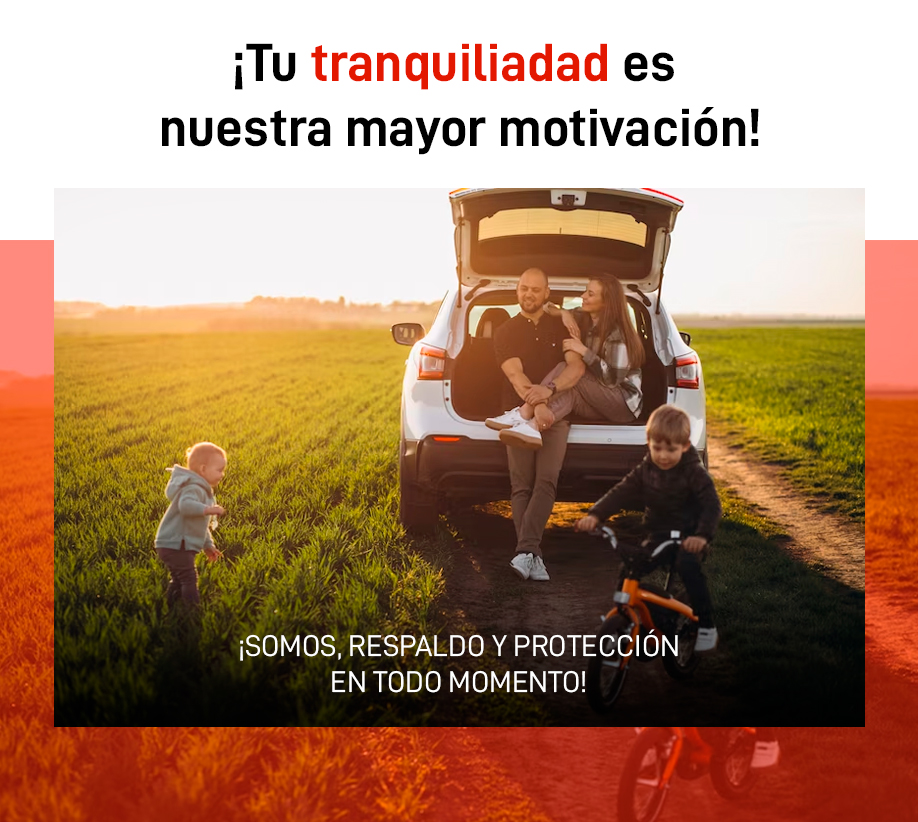
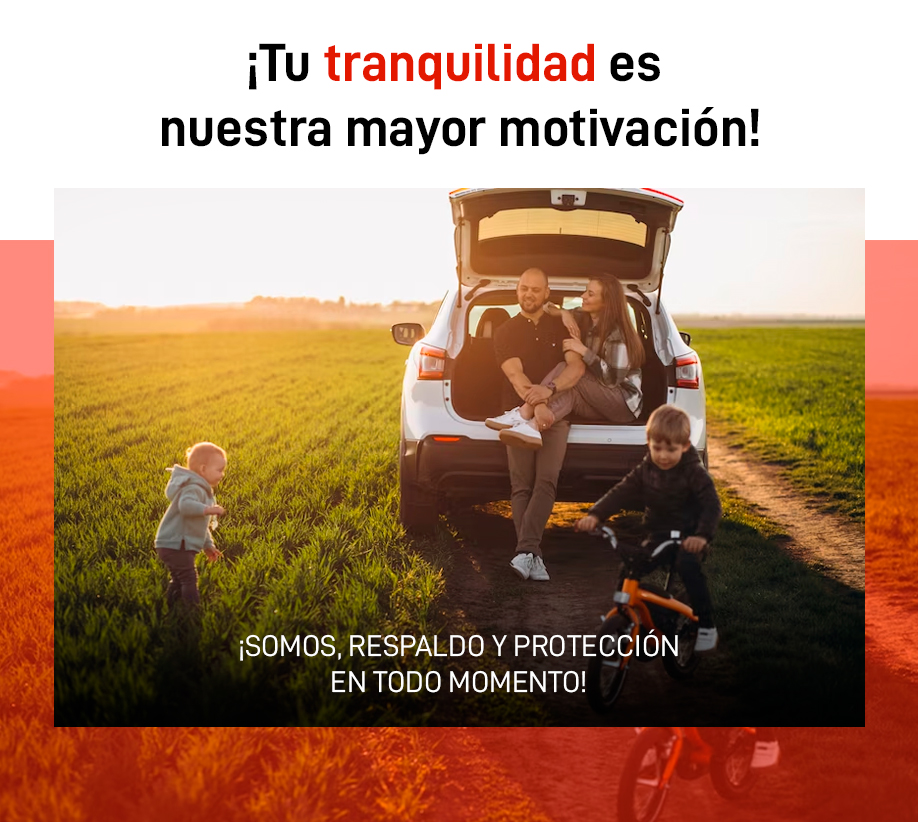
1.6.29

Changed region(s): [[0.244, 0.0304, 0.732, 0.1217]]

diff --git a/webapp/Scripts/ColoresTenant.js b/webapp/Scripts/ColoresTenant.js
@@ -2,21 +2,44 @@
 
 //// Cargar el select de aliados////////
 
+//app.core.Get(app.setting.apipath + 'v1/Colors/GetColor')
+//    .done(function (data, textStatus, jqXHR) {
+//        ListaElementos = data;
+//        for (var a in data) {
+//            for (var prop in data[a]) {
+//                var object = data[a]
+//                if (prop == "Tenant") {
+//                    $('#tenant').append($('<option>', {
+//                        text: object[prop]
+//                    }));
+//                }
+//            }
+//        }
+
+//    })
+
+
 app.core.Get(app.setting.apipath + 'v1/Colors/GetColor')
     .done(function (data, textStatus, jqXHR) {
         ListaElementos = data;
+        var addedValues = {}; // objeto para evitar values duplicados
         for (var a in data) {
-            for (var prop in data[a]) {
-                var object = data[a]
-                if (prop == "Tenant") {
+            if (data[a].hasOwnProperty('Tenant') && data[a].hasOwnProperty('CompanyID')) {
+                var Tenant = data[a]['Tenant'];
+                var CompanyID = data[a]['CompanyID'];
+                if (!addedValues.hasOwnProperty(CompanyID)) { // Si el value no está en el objeto 
+                    addedValues[CompanyID] = true; // Agregar el value al objeto 
                     $('#tenant').append($('<option>', {
-                        text: object[prop]
+                        text: Tenant,
+                        value: CompanyID
                     }));
                 }
             }
         }
+    });
 
-    })
+
+
 
 //// Cambiar los colores de los inputs segun el alido/////
 
@@ -26,7 +49,7 @@ $("#tenant").on('change', function () {
         for (var prop in ListaElementos[a]) {
             var object = ListaElementos[a]
             if (object[prop] == Tenant) {
-                
+
                 $('#color1').val(object['Color1'])
                 $('#color2').val(object['Color2'])
             }
@@ -38,8 +61,9 @@ $("#tenant").on('change', function () {
 /////// obtener sus valores /////////
 
 function MapInputToObject() {
-    
+
     var data = {
+        CompanyID: $("#tenant option:selected").val(),
         Color1: $('#color1').val(),
         Color2: $('#color2').val(),
         Tenant: $("#tenant option:selected").text(),
@@ -90,7 +114,7 @@ $("#resetear").click(function () {
 
 //////cambiar colores "previsualización" tiempo real///////////////
 
-let ColorInput1 = document.getElementById("color1") 
+let ColorInput1 = document.getElementById("color1")
 ColorInput1.addEventListener("input", e => {
 
     document.documentElement.style.setProperty('--prewiew1', e.target.value)
@@ -113,15 +137,15 @@ $("#tenant").on('change', function () {
         for (var prop in ListaElementos[a]) {
             var object = ListaElementos[a]
             if (object[prop] == Tenant) {
-                
+
                 document.getElementById('logotenant').innerHTML = ['<img class="thumb" src= "' + object['Logo'] + '"/>']
-                
+
             }
         }
     }
     document.documentElement.style.setProperty('--prewiew1', $('#color1').val())
     document.documentElement.style.setProperty('--prewiew2', $('#color2').val())
-    
+
 
 })
 
@@ -130,8 +154,8 @@ $("#tenant").on('change', function () {
 $('#tenant').on('change', function (e) {
 
     $('.preview_page').css('display', 'none');
-    setTimeout(function () { $('.preview_page').css('display', 'block'); },50)
-    
+    setTimeout(function () { $('.preview_page').css('display', 'block'); }, 50)
+
 });
 
 
@@ -139,29 +163,29 @@ $('#tenant').on('change', function (e) {
 
 /// carga archivo del input file//////////
 
- function archivo(evt) {
-            var files = evt.target.files;
+function archivo(evt) {
+    var files = evt.target.files;
 
-            for (var i = 0, f; f = files[i]; i++) {
-                if (!f.type.match('image.*')) {
-                    toastr.error("No se permiten archivos que no sean imágenes", '', { timeOut: 7000, closeButton: true, progressBar: true });
+    for (var i = 0, f; f = files[i]; i++) {
+        if (!f.type.match('image.*')) {
+            toastr.error("No se permiten archivos que no sean imágenes", '', { timeOut: 7000, closeButton: true, progressBar: true });
 
-                    continue;
-                }
-
-                var reader = new FileReader();
-
-                reader.onload = (function (theFile) {
-                    return function (e) {
-                        $('.circulo_preview').css('display', 'none');
-                        document.getElementById("logotenant").innerHTML = ['<img class="thumb" src="', e.target.result, '"title="', escape(theFile.name), '"/>'].join('');
-                        setTimeout(function () { $('.circulo_preview').css('display', 'block'); }, 50)
-                    }
-                })(f);
-
-                reader.readAsDataURL(f);
-            }
+            continue;
         }
+
+        var reader = new FileReader();
+
+        reader.onload = (function (theFile) {
+            return function (e) {
+                $('.circulo_preview').css('display', 'none');
+                document.getElementById("logotenant").innerHTML = ['<img class="thumb" src="', e.target.result, '"title="', escape(theFile.name), '"/>'].join('');
+                setTimeout(function () { $('.circulo_preview').css('display', 'block'); }, 50)
+            }
+        })(f);
+
+        reader.readAsDataURL(f);
+    }
+}
 
 document.getElementById('formFile').addEventListener('change', archivo, false);
 

diff --git a/Core/Architect.API.Core.DataAccess/_Generated/ColorKey.cs b/Core/Architect.API.Core.DataAccess/_Generated/ColorKey.cs
@@ -10,15 +10,44 @@ namespace Architect.API.Core.DataAccess.General
     public sealed partial class ColorKey
     {
 
+        public static List<Architect.API.Core.Contracts.Security.ColoresResponse> RetrieveAllColors(IDbConnection connection = null)
+        {
+            List<Architect.API.Core.Contracts.Security.ColoresResponse> result = new List<Architect.API.Core.Contracts.Security.ColoresResponse>();
+            Database.Select("SELECT LOOKUP.CODE , LOOKUP.LOOKUPID , LOOKUP.DESCRIPTION , TENANTSPERSONALIZATION.COMPANYID , TENANTSPERSONALIZATION.COLOR1TENANT , " +
+                "TENANTSPERSONALIZATION.COLOR2TENANT , TENANTSPERSONALIZATION.LOGO  " +
+                "FROM LOOKUP " +
+                "JOIN TENANTSPERSONALIZATION ON LOOKUP.CODE = TENANTSPERSONALIZATION.COMPANYID " +
+                "WHERE LOOKUP.LOOKUPID = 4")
+                        .Query(connection, "Research", new Action<System.Data.IDataReader>((reader) =>
+                        {
+                            result.Add(DataReaderToColorData(reader));
+                        }));
+            return result;
+        }
+
+        public static Architect.API.Core.Contracts.Security.ColoresResponse DataReaderToColorData(System.Data.IDataReader reader, Architect.API.Core.Contracts.Security.ColoresResponse item = null)
+        {
+            if (item == null)
+            {
+                item = new Architect.API.Core.Contracts.Security.ColoresResponse();
+            }
+            item.CompanyID = reader.StringValue("COMPANYID");
+            item.Tenant = reader.StringValue("DESCRIPTION");
+            item.Color1 = reader.StringValue("Color1Tenant");
+            item.Color2 = reader.StringValue("Color2Tenant");
+            item.Logo = reader.StringValue("LOGO");
+            return item;
+        }
+
         public static int Update(Architect.API.Core.Contracts.Security.ColoresResponse ColorKeyItem, IDbConnection connection = null)
         {
-            return Database.Update("Update LOOKUP " +
+            return Database.Update("Update TENANTSPERSONALIZATION " +
                                    "Set COLOR1TENANT = :Color1 , COLOR2TENANT = :Color2 , LOGO = :Logo " +
-                                   "Where Description = :Tenant")
+                                   "Where COMPANYID = :CompanyID")
                             .AddParameter("Color1", DbType.String, 25, ColorKeyItem.Color1)
                             .AddParameter("Color2", DbType.String, 25, ColorKeyItem.Color2)
                             .AddParameter("Logo", DbType.String, 3850, ColorKeyItem.Logo)
-                            .AddParameter("Tenant", DbType.String, 25, ColorKeyItem.Tenant)
+                            .AddParameter("CompanyID", DbType.String, 5, ColorKeyItem.CompanyID)
                             .Execute(connection, "Research");
         }
 

diff --git a/Core/Architect.API.Core.DataAccess/Security/Tron.cs b/Core/Architect.API.Core.DataAccess/Security/Tron.cs
@@ -67,14 +67,21 @@ namespace Architect.API.Core.DataAccess.Security
 
             string json_tercero = "";
             try {
+                if (subagentItem.cod_agt != 999999)
+                {
+                    subagentItem.cod_emp_agt = cod_SubAgent(subagentItem.tip_docum, subagentItem.cod_docum, subagentItem.cod_agt);
+                    json_tercero = JsonSerializer.Serialize(subagentItem);
 
-                subagentItem.cod_emp_agt = cod_SubAgent(subagentItem.tip_docum, subagentItem.cod_docum, subagentItem.cod_agt);
-                json_tercero = JsonSerializer.Serialize(subagentItem);
-
-                return Database.Procedure(@"em_k_mapfre_batch_contract_mcr.em_p_crea_terceros")
-                .AddParameter("p_dat_asegurado", DbType.String, 8000, json_tercero)
-                .AddParameter("p_errores", DbType.RefCursor, 0, null, ParameterDirection.Output)
-                .Execute(connection, "Tron") != 0;
+                    return Database.Procedure(@"em_k_mapfre_batch_contract_mcr.em_p_crea_terceros")
+                    .AddParameter("p_dat_asegurado", DbType.String, 8000, json_tercero)
+                    .AddParameter("p_errores", DbType.RefCursor, 0, null, ParameterDirection.Output)
+                    .Execute(connection, "Tron") != 0;
+                }
+                else
+                {
+                    return true;
+                }
+                
             }
             catch (Exception ex)
             {
@@ -88,9 +95,9 @@ namespace Architect.API.Core.DataAccess.Security
         {
             int resultado = 0;
             Database.Select(@"select 
-                                em_k_tables_contract_mcr.fc_cod_subagente(p_tip_docum => :tip_docum,
+                                nvl(em_k_tables_contract_mcr.fc_cod_subagente(p_tip_docum => :tip_docum,
                                                                           p_cod_docum => :p_cod_docum,
-                                                                          p_cod_agt => :p_cod_agt) cod_sub_agt
+                                                                          p_cod_agt => :p_cod_agt),0) cod_sub_agt
                             from dual")
                          .AddParameter("p_tip_docum", DbType.String, 50, tip_docum)
                          .AddParameter("p_cod_docum", DbType.String, 50, cod_docum)

diff --git a/Core/Architect.API.Core.DataAccess/_Generated/ProcessCase.cs b/Core/Architect.API.Core.DataAccess/_Generated/ProcessCase.cs
@@ -130,18 +130,7 @@ namespace Architect.API.Core.DataAccess.General
                         }));
             return result;
         }
-        public static List<Architect.API.Core.Contracts.Security.ColoresResponse> RetrieveAllColors(IDbConnection connection = null)
-        {
-            List<Architect.API.Core.Contracts.Security.ColoresResponse> result = new List<Architect.API.Core.Contracts.Security.ColoresResponse>();
-            Database.Select("SELECT DESCRIPTION, COLOR1TENANT, COLOR2TENANT , LOGO  " +
-                              "FROM LOOKUP " +
-                             "WHERE LOOKUPID = 4")
-                        .Query(connection, "Research", new Action<System.Data.IDataReader>((reader) =>
-                        {
-                            result.Add(DataReaderToColorData(reader));
-                        }));
-            return result;
-        }
+
         /// <summary>
         /// Recupera una lista de registros en la tabla ProcessCase.
         /// </summary>
@@ -416,19 +405,6 @@ namespace Architect.API.Core.DataAccess.General
 
             //Agregado para la lectura del usuario que envio el caso
             item.UserSend = reader.IntegerValue("UserSend");
-            return item;
-        }
-
-        public static Architect.API.Core.Contracts.Security.ColoresResponse DataReaderToColorData(System.Data.IDataReader reader, Architect.API.Core.Contracts.Security.ColoresResponse item = null)
-        {
-            if (item == null)
-            {
-                item = new Architect.API.Core.Contracts.Security.ColoresResponse();
-            }
-            item.Tenant = reader.StringValue("Description");
-            item.Color1 = reader.StringValue("Color1Tenant");
-            item.Color2 = reader.StringValue("Color2Tenant");
-            item.Logo = reader.StringValue("LOGO");
             return item;
         }
 

diff --git a/Core/Architect.API.Core.Business/Security/Accounts.cs b/Core/Architect.API.Core.Business/Security/Accounts.cs
@@ -353,7 +353,7 @@ namespace Architect.API.Core.Business.Security
         public static List<Architect.API.Core.Contracts.Security.ColoresResponse> ReadColor()
         {
 
-            List<Architect.API.Core.Contracts.Security.ColoresResponse> RespuestaData = Architect.API.Core.DataAccess.General.ProcessCase.RetrieveAllColors();
+            List<Architect.API.Core.Contracts.Security.ColoresResponse> RespuestaData = Architect.API.Core.DataAccess.General.ColorKey.RetrieveAllColors();
 
             return RespuestaData;
         }

diff --git a/Core/Architect.API.Core.Contracts/Security/ColoresResponse.cs b/Core/Architect.API.Core.Contracts/Security/ColoresResponse.cs
@@ -8,11 +8,11 @@ namespace Architect.API.Core.Contracts.Security
 {
     public class ColoresResponse
     {
-
+        public string CompanyID { get; set; }
         public string Color1 { get; set; }
         public string Color2 { get; set; }
-        public string Tenant{ get; set; }
-        public string Logo{ get; set; }
+        public string Tenant { get; set; }
+        public string Logo { get; set; }
 
     }
 }
